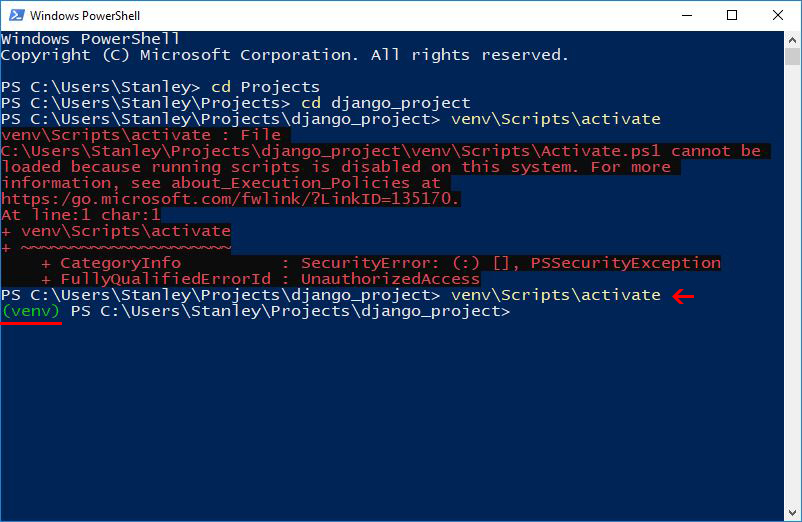
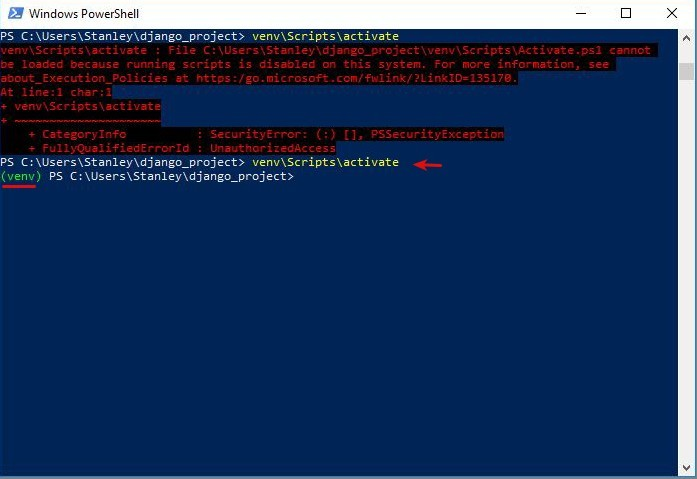
publishing 'how to install django on windows' article

diff --git a/_posts/2019-08-31-how-to-install-django-on-windows.md b/_posts/2019-08-31-how-to-install-django-on-windows.md
@@ -1,9 +1,9 @@
 ---
 header:
-  teaser: /assets/images/posts/2019-08-13-install-git-bash/featured-image.jpg
-feature_image: /assets/images/posts/2019-08-13-install-git-bash/featured-image.jpg
+  teaser: /assets/images/posts/2019-08-31-how-to-install-django-on-windows/featured-image.jpg
+feature_image: /assets/images/posts/2019-08-31-how-to-install-django-on-windows/featured-image.jpg
 featured_image_alt: featured-image
-excerpt: In this tutorial, we are going to learn how to install Git Bash on Windows. Git Bash for Windows is a package that comprises of `git` and `bash`.
+excerpt: In this tutorial, we are going to learn how to install Django on Windows. 
 
 categories:
  - Django
@@ -14,27 +14,28 @@ tags:
 toc: true;
 toc_sticky: true
 toc_label: "Table of Contents"
+title: "How to Install Django on Windows:  Step by Step Guide"
 ---
 
+Django is one of the most popular web frameworks in Python. It is secure, robust and allows developers to rapidly develop projects and meet deadlines. It is free and open-source, it works both on Windows and *nix systems. 
 
-This tutorial focuses on Installing Django on Windows 7,8,10. It comes in two parts, the first part focuses on installing Django on windows Command Prompt and Powershell. The second half focuses on installing Django on Windows Git bash terminal.
+In this tutorial, we are going to learn how to install Django on Windows. 
 
 ## Install Python
-Before you install Django, you must make sure that you have installed Python. You can checkout this guide: [how to install python on windows]() to learn how to install Python on Windows.
+Before you install Django, you must make sure that you have  Python installed. You can check out this guide I wrote: [how to install python on windows](https://www.stanleyulili.com/python/how-to-install-python-on-windows/) to learn how to install Python on Windows.
 
-Note: make sure you check the "Add Python 3.7 to PATH " checkbox" checkbox when installing Python(it is explained in the article I have linked)
 
 ## Install Django on Windows
 
-The commands that we will run in this coming steps will work on both Windows Command Prompt(CMD) and Powershell. I will use Powershell but you can CMD if that's what you prefer.
+The commands that we will run in this tutorial will work on both Windows Command Prompt(CMD) and Powershell. I will use Powershell but you can CMD if that's what you prefer.
 
 ### Step 1 - Open Powershell
 
- You can can search for Powershell in the Windows search box or you can open the **Run** dialog box by holding **Windows logo key**  and **R**(Win+R) and type powershell and then click **ok**.
+ You can search for Powershell in the Windows search box or you can open the **Run** dialog box by holding **Windows logo key**  and **R**(Win+R) and type `powershell` and then click **ok**.
 
-You should now have Powershell window opened.
+You should now have a Powershell window opened.
 
-[]IMAGE COMEs HERE
+ ![powershell opened](/assets/images/posts/2019-08-31-how-to-install-django-on-windows/powershell-opened.jpg)
 
 Now that we have opened Powershell, Let's verify that Python has been installed.
 
@@ -54,29 +55,19 @@ Python 3.7.4
 
 ### Step 3 - Upgrade Pip
 
-Python now comes with **pip** by default. But most of the times, it comes with an old version. it is always a good practice to upgrade pip to  the latest version
+Python now comes with **pip** by default. But most of the time, it comes with an old version. it is always a good practice to upgrade pip to  the latest version
 
 ```
 > python -m pip install --upgrade pip
 ```
-You should see something like the screenshot below showing that the upgrade was a success
+You should see something like the screenshot below showing that the upgrade was a success:
 
-```
-Collecting pip
-  Downloading https://files.pythonhosted.org/packages/30/db/9e38760b32e3e7f40cce46dd5fb107b8c73840df38f0046d8e6514e675a1/pip-19.2.3-py2.py3-none-any.whl (1.4MB)
-     |████████████████████████████████| 1.4MB 386kB/s
-Installing collected packages: pip
-  Found existing installation: pip 19.2.2
-    Uninstalling pip-19.2.2:
-      Successfully uninstalled pip-19.2.2
-Successfully installed pip-19.2.3
-```
+ ![upgrade pip](/assets/images/posts/2019-08-31-how-to-install-django-on-windows/pip-install.jpg)
 
-![]SCREENSHOT of pip downloding and finishing downloading
 
-**Step 5 - Create Project Directory
+### Step 4 - Create a Project Directory
 
-let's create a project directory. We will name it **django_project** since this tutorial is just a demo but in real world, the project directory's  name would be forum, blog, etc.
+let's create a project directory. We will name it **django_project** since this tutorial is just a demo but in the real world, the project directory's name would be forum, blog, etc.
 
 To create the directory:
 
@@ -90,109 +81,84 @@ Change into the `django_project` directory:
 > cd django_project
 ````
 
-Your prompt should now look like this, showing that you are in the `django_project` directory:
+Your prompt should now show you that you're in the **"django_project"** directory like below:
 
 ```
 PS C:\Users\Username\django_project>
 ```
-~![] screenshot showing you are in django_project
 
-
-### Step 6 - Create Virtual Environment
-
+### Step 5 - Create Virtual Environment
+A virtual environment(virtualenv) is an isolated Python environment where you can install packages and dependencies without affecting other Python projects. You can learn more about virtualenv [here.](https://realpython.com/python-virtual-environments-a-primer/)
 
 To create a virtual environment, type `python -m venv venv` and wait for a few seconds:
 ```
 > python -m venv venv
 ```
+It will create a directory called `venv` in the project directory.
 
-### Step 7 - Activate Virtual Environment
+Next, we will activate the virtual environment.
+
+### Step 6 - Activate Virtual Environment
 Run the following command to activate the virtualenv.
 
 ```
 > venv\Scripts\activate
 ```
-When virtual env is activated, you will see
-a **(venv)** at the beggining of the prompt.
+When virtualenv is activated, you will see
+a **(venv)** at the beginning of the prompt.
 
 ```
 (venv) PS C:\Users\Stanley\django_project>
 ```
 
-If you run into an error like the one below on Pwershell, for the sake of brevity sake, I described the reason and the solution on this post(link here).:
+If you run into an error like the one below on Powershell when activating virtualenv, for the sake of brevity, I described the reason and the solution here: [https://www.stanleyulili.com/powershell/solution-to-running-scripts-is-disabled-on-this-system-error-on-powershell/](https://www.stanleyulili.com/powershell/solution-to-running-scripts-is-disabled-on-this-system-error-on-powershell/)
 
-```
-PS C:\Users\Stanley\Projects\django_project> .\venv\Scripts\activate
-.\venv\Scripts\activate : File C:\Users\Stanley\Projects\django_project\venv\Scripts\Activate.ps1 cannot be loaded
-because running scripts is disabled on this system. For more information, see about_Execution_Policies at
-https:/go.microsoft.com/fwlink/?LinkID=135170.
-At line:1 char:1
-+ .\venv\Scripts\activate
-+ ~~~~~~~~~~~~~~~~~~~~~~~
-    + CategoryInfo          : SecurityError: (:) [], PSSecurityException
-    + FullyQualifiedErrorId : UnauthorizedAccess
-PS C:\Users\Stanley\Projects\django_project>
-```
+ ![activation error](/assets/images/posts/2019-08-31-how-to-install-django-on-windows/error-with-powershell.jpg)
 
 Now that virtual environment is activated, let's install Django.
 
-### Step 8 - Install Django
-```
-Run the following command: 
+### Step 7 - Install Django
+We are going to use `pip` to install Django. So run the following command to start the installation: 
 
+```
 (venv)> pip install django
 ````
-The command will install the latest version of Django. You shoud see something the screenshot below showing Django being downloaded:
-```
-Collecting django
-  Downloading https://files.pythonhosted.org/packages/d6/57/66997ca6ef17d2d0f0ebcd860bc6778095ffee04077ca8985928175da358/Django-2.2.4-py3-none-any.whl (7.5MB)
-    100% |████████████████████████████████| 7.5MB 546kB/s
-Collecting sqlparse (from django)
-  Downloading https://files.pythonhosted.org/packages/ef/53/900f7d2a54557c6a37886585a91336520e5539e3ae2423ff1102daf4f3a7/sqlparse-0.3.0-py2.py3-none-any.whl
-Collecting pytz (from django)
-  Downloading https://files.pythonhosted.org/packages/87/76/46d697698a143e05f77bec5a526bf4e56a0be61d63425b68f4ba553b51f2/pytz-2019.2-py2.py3-none-any.whl (508kB)
-    100% |████████████████████████████████| 512kB 595kB/s
-Installing collected packages: sqlparse, pytz, django
-Successfully installed django-2.2.4 pytz-2019.2 sqlparse-0.3.0
-You are using pip version 19.0.3, however version 19.2.3 is available.
-You should consider upgrading via the 'python -m pip install --upgrade pip' command.
-```
-![]SCREENSHOT comes here
+The command will install the latest version of Django. You should see Django being downloaded just like the screenshot below:
 
-If you want to install a different django version, you can specify the version:
+ ![django installed](/assets/images/posts/2019-08-31-how-to-install-django-on-windows/django-installed.jpg)
+
+If you want to install a different Django version, you can specify the version:
 
 ```
 (venv)> pip install django==2.1
 ````
 
-### Step 9 - Start a New Project
+### Step 8 - Start a New Project
 
 We will use ``django-admin startproject`` to create our Django project structure called "testsite".
 
 Run the following command:
 
 ```
->django-admin startproject testsite
+(venv)> django-admin startproject testsite
 ```
 
 Navigate into the **testsite** directory by running the following command:
 
 ```
->cd testsite
+(venv)> cd testsite
 ```
 
-### Step 10 - Run the Server
+### Step 9 - Run the Server
 Let's now run the development server using the **manage.py runserver**:
 
->python manage.py runserver
 ```
-Watching for file changes with StatReloader
-Performing system checks...
+(venv)> python manage.py runserver
+```
+![run server](/assets/images/posts/2019-08-31-how-to-install-django-on-windows/runserver.jpg)
 
-System check identified no issues (0 silenced).
-August 31, 2019 - 04:35:54
-Django version 2.2.4, using settings 'testsite.settings'
-Starting development server at http://127.0.0.1:8000/
-Quit the server with CTRL-BREAK.
-```
-Your are now ready to start developing your project
+Visit [http://127.0.0.1:8000/](http://127.0.0.1:8000/) in your web browser.
+
+**Tip**: if want to leave the virtualenv, you must type **deactivate** on the prompt. 
+
+You are now ready to start developing your project

diff --git a/_posts/2019-08-22-solution-to-running-scripts-is-disabled-on-this-system-error-on-powershell.md b/_posts/2019-08-22-solution-to-running-scripts-is-disabled-on-this-system-error-on-powershell.md
@@ -14,7 +14,7 @@ tags:
 title: Solution to "Running Scripts Is Disabled On This System" Error On Powershell
 ---
 
-I run into this error **"running scripts is disabled on this system"**  as I was trying to activate  Python virtual environment on Powershell.
+I run into this error **"running scripts is disabled on this system"**  as I was trying to activate  Python's virtualenv on Powershell.
 
  ![running scripts disabled](/assets/images/posts/2019-08-25-running-scripts-is-disabled-on-this-system-powershell/error.jpg)
 
@@ -31,16 +31,17 @@ Here is how I fixed the error:
 
 **Step 1**: **Open Windows Powershell as Admin**
 
-Open the ** Start menu** on Windows and search for **powershell** and right-click on it. Click on **"run as administrator"**. 
+Open the **Start menu** on Windows and search for **powershell** and right-click on it. Click on **"run as administrator"**. 
 
- You **don't need to close the Powershell window** with the error.
+**Note**: You don't need to close the Powershell window where you got the error.
+{: .notice--warning}
 
  ![get execution policy](/assets/images/posts/2019-08-25-running-scripts-is-disabled-on-this-system-powershell/powershell-admin.jpg)
 
-**Step 2**: Type the following command:
+**Step 2**: Type the following command the new Powershell window:
 
 ```
-PS C:\Windows\system32> set-executionpolicy remotesigned
+> set-executionpolicy remotesigned
 ```
 
 This command will allow you to run scripts that are on your local computer(unsigned) and remote scripts(from the internet) which have been signed.
@@ -57,5 +58,5 @@ This command will allow you to run scripts that are on your local computer(unsig
 
 The command has worked! virtualenv has been activated.
 ```
-(venv) PS C:\Users\Stanley\Projects\django_project>
+(venv) PS C:\Users\Stanley\django_project>
 ```
